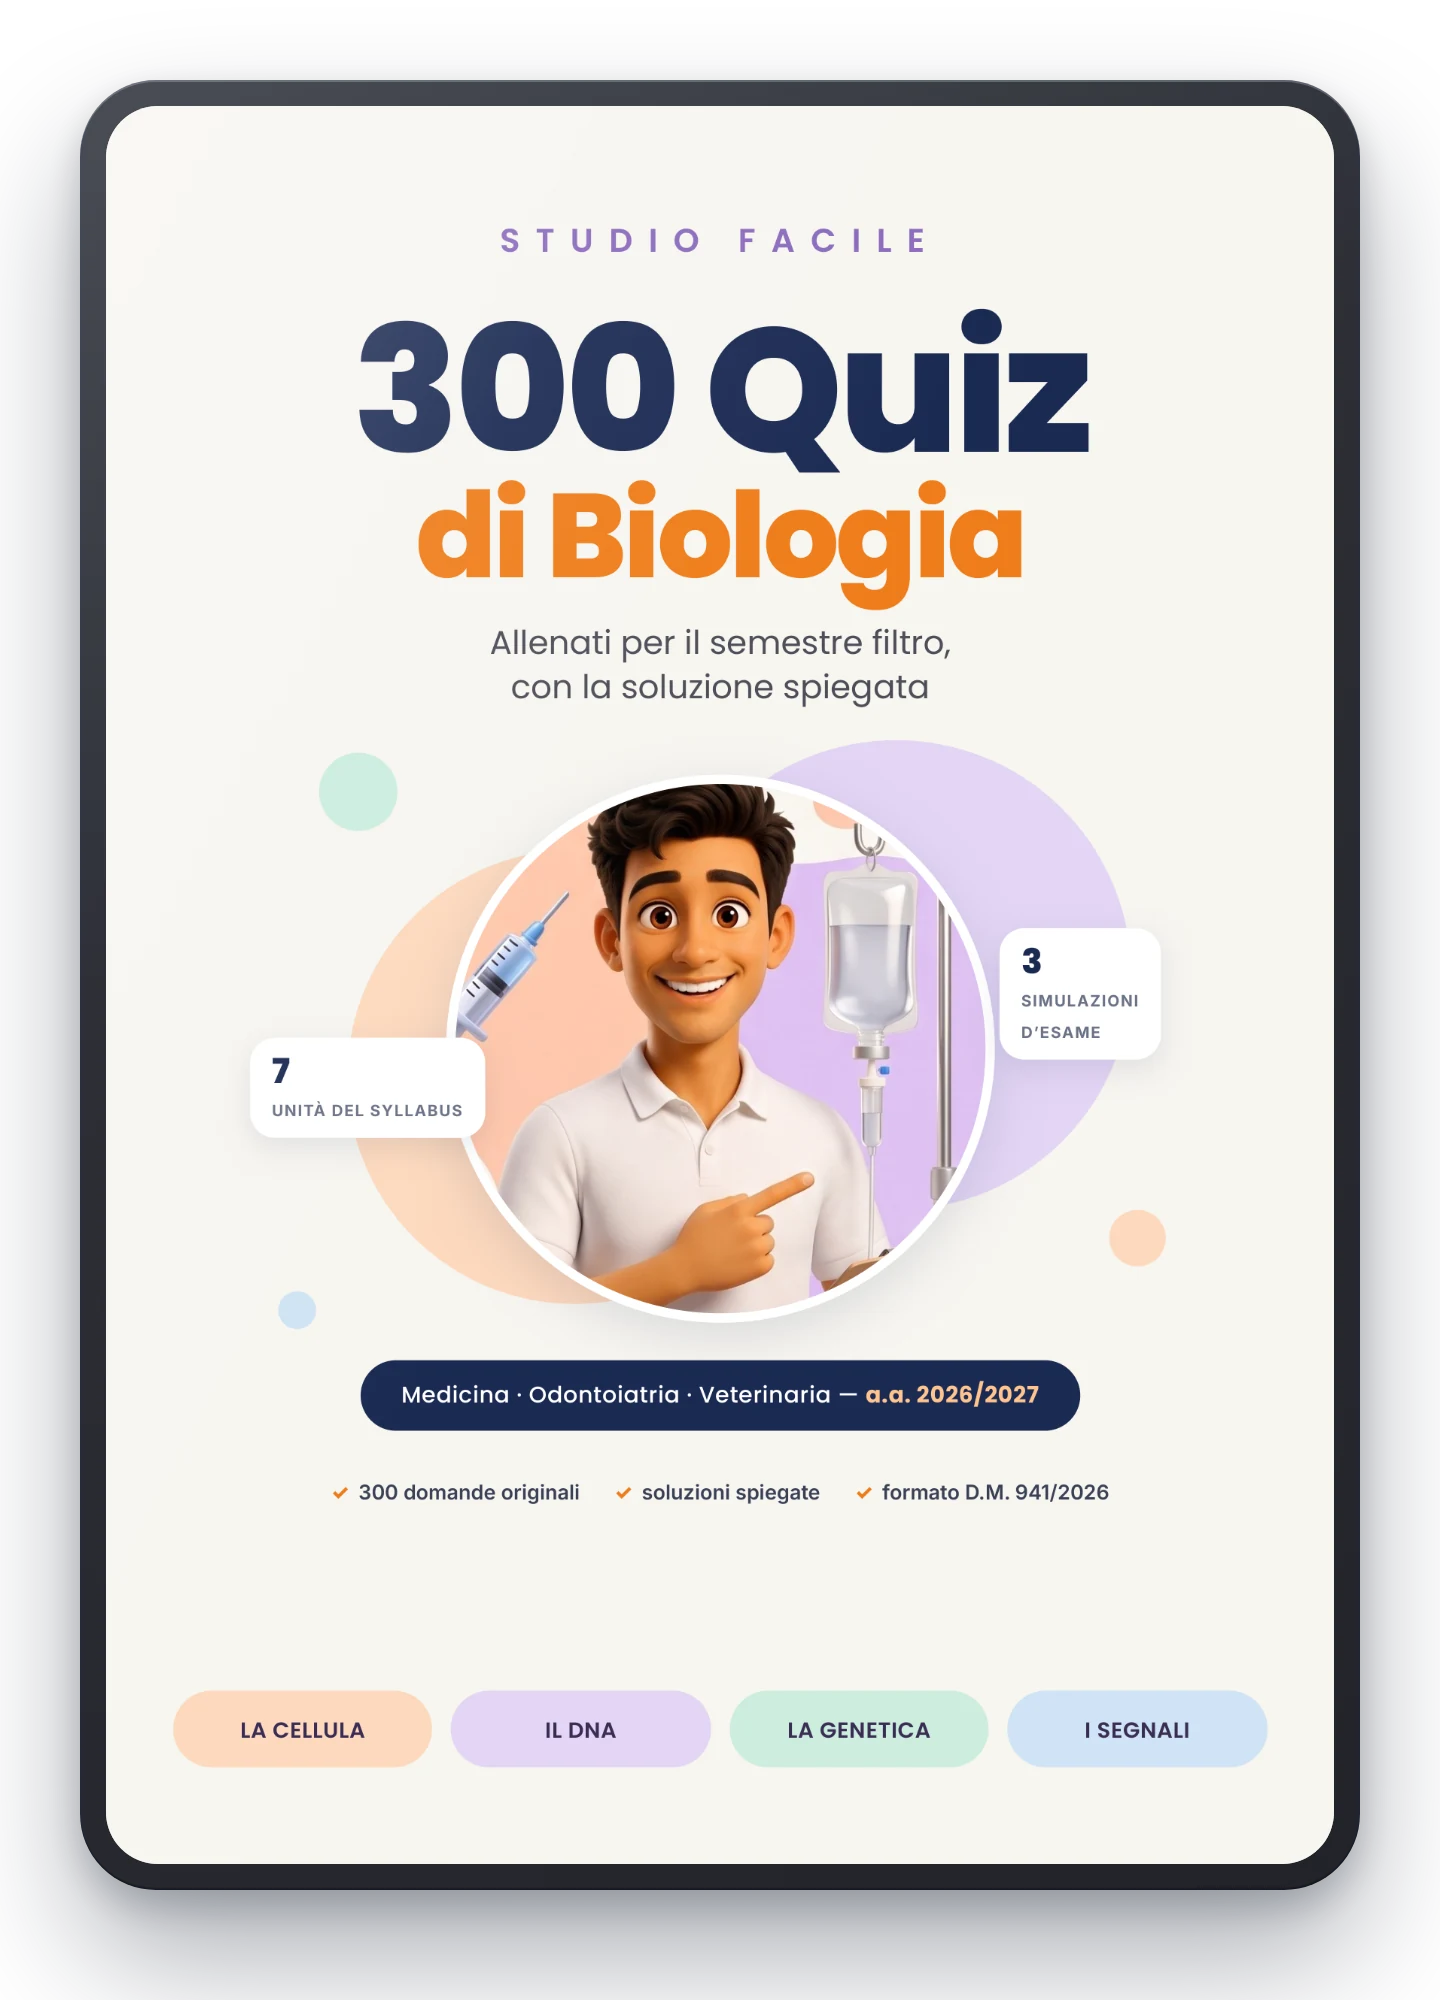
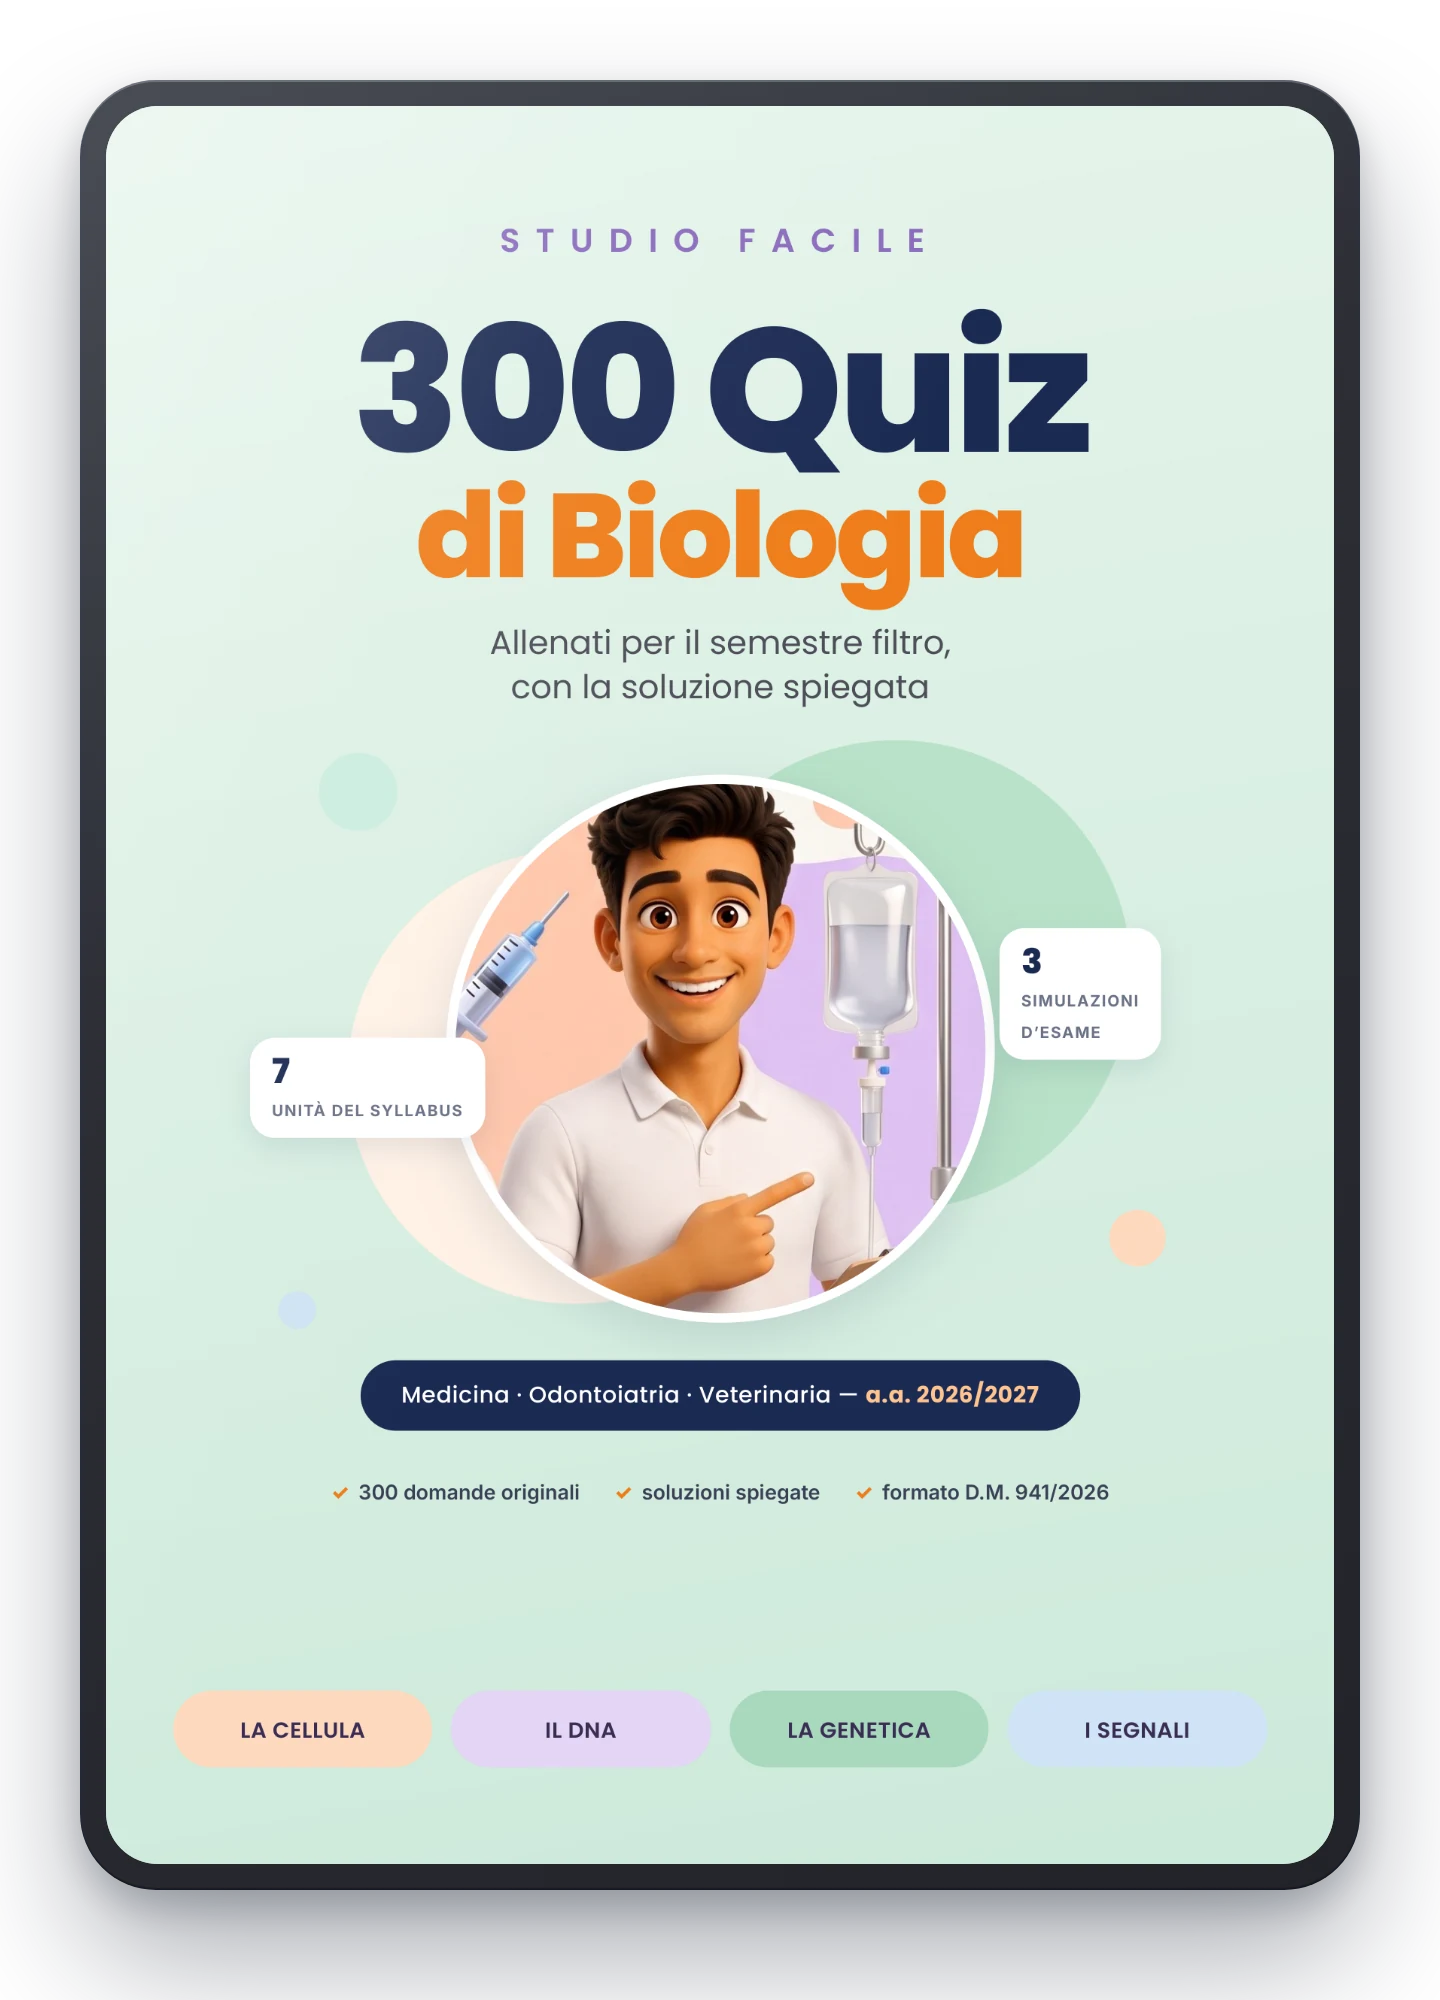
biologia: copertina quiz verde, testimonianze prima dell'esame

diff --git a/biologia.html b/biologia.html
@@ -2148,7 +2148,7 @@
   <section class="hero">
     <div class="hero-content">
       <div class="hero-mockup">
-        <img src="https://czocbnyoenjbpxmcqobn.supabase.co/storage/v1/object/public/algoritmia-img/studiofacile/mockups/biologia/hero.webp?v=01730e5b" alt="Biologia Illustrata con i bonus 300 Quiz di Biologia e Le Parole della Biologia"
+        <img src="https://czocbnyoenjbpxmcqobn.supabase.co/storage/v1/object/public/algoritmia-img/studiofacile/mockups/biologia/hero.webp?v=11bc0f6a" alt="Biologia Illustrata con i bonus 300 Quiz di Biologia e Le Parole della Biologia"
              width="1200" height="886" loading="eager" fetchpriority="high" decoding="async">
       </div>
       <p class="hero-social">
@@ -2248,8 +2248,36 @@
     </div>
   </section>
 
+  <!-- TESTIMONIANZE -->
+  <section class="section section-alt" aria-label="Opinioni degli studenti">
+    <div class="container">
+      <h2 class="text-center" style="margin-bottom: 12px;">Cosa Dicono gli Oltre 11.978 Studenti Che Usano Già Studio Facile:</h2>
+      <p class="text-center section-sub-p">Opinioni sui volumi illustrati della collana Studio Facile.</p>
+      
+      <div class="testimonials-carousel-wrap" role="region" aria-label="Carosello delle opinioni">
+        <button type="button" class="carousel-nav" data-dir="prev" data-target="testimonials-scroll" aria-label="Opinione precedente"><svg viewBox="0 0 24 24" fill="none" stroke="currentColor" stroke-width="2.4" stroke-linecap="round" stroke-linejoin="round" aria-hidden="true"><polyline points="15 18 9 12 15 6"></polyline></svg></button>
+        <button type="button" class="carousel-nav" data-dir="next" data-target="testimonials-scroll" aria-label="Opinione successiva"><svg viewBox="0 0 24 24" fill="none" stroke="currentColor" stroke-width="2.4" stroke-linecap="round" stroke-linejoin="round" aria-hidden="true"><polyline points="9 18 15 12 9 6"></polyline></svg></button>
+        <div class="testimonials-scroll" id="testimonials-scroll" role="list">
+          <article class="testimonial-item" role="listitem"><img src="https://czocbnyoenjbpxmcqobn.supabase.co/storage/v1/object/public/algoritmia-img/studiofacile/depoimentos/testimonio-1.webp?v=452e8424" alt="Opinioni e recensioni degli studenti di Studio Facile" width="1254" height="1254" loading="lazy" decoding="async"></article>
+          <article class="testimonial-item" role="listitem"><img src="https://czocbnyoenjbpxmcqobn.supabase.co/storage/v1/object/public/algoritmia-img/studiofacile/depoimentos/testimonio-2.webp?v=71e8259b" alt="Opinioni e recensioni degli studenti di Studio Facile" width="1254" height="1254" loading="lazy" decoding="async"></article>
+          <article class="testimonial-item" role="listitem"><img src="https://czocbnyoenjbpxmcqobn.supabase.co/storage/v1/object/public/algoritmia-img/studiofacile/depoimentos/testimonio-3.webp?v=1fe606d2" alt="Opinioni e recensioni degli studenti di Studio Facile" width="1254" height="1254" loading="lazy" decoding="async"></article>
+          <article class="testimonial-item" role="listitem"><img src="https://czocbnyoenjbpxmcqobn.supabase.co/storage/v1/object/public/algoritmia-img/studiofacile/depoimentos/testimonio-4.webp?v=7f02ae2b" alt="Opinioni e recensioni degli studenti di Studio Facile" width="1254" height="1254" loading="lazy" decoding="async"></article>
+          <article class="testimonial-item" role="listitem"><img src="https://czocbnyoenjbpxmcqobn.supabase.co/storage/v1/object/public/algoritmia-img/studiofacile/depoimentos/testimonio-5.webp?v=d9509ff6" alt="Opinioni e recensioni degli studenti di Studio Facile" width="1254" height="1254" loading="lazy" decoding="async"></article>
+          <article class="testimonial-item" role="listitem"><img src="https://czocbnyoenjbpxmcqobn.supabase.co/storage/v1/object/public/algoritmia-img/studiofacile/depoimentos/testimonio-6.webp?v=34eba7d2" alt="Opinioni e recensioni degli studenti di Studio Facile" width="1254" height="1254" loading="lazy" decoding="async"></article>
+          <article class="testimonial-item" role="listitem"><img src="https://czocbnyoenjbpxmcqobn.supabase.co/storage/v1/object/public/algoritmia-img/studiofacile/depoimentos/testimonio-7.webp?v=5d8f28a1" alt="Opinioni e recensioni degli studenti di Studio Facile" width="1254" height="1254" loading="lazy" decoding="async"></article>
+          <article class="testimonial-item" role="listitem"><img src="https://czocbnyoenjbpxmcqobn.supabase.co/storage/v1/object/public/algoritmia-img/studiofacile/depoimentos/testimonio-8.webp?v=e42277f4" alt="Opinioni e recensioni degli studenti di Studio Facile" width="1254" height="1254" loading="lazy" decoding="async"></article>
+          <article class="testimonial-item" role="listitem"><img src="https://czocbnyoenjbpxmcqobn.supabase.co/storage/v1/object/public/algoritmia-img/studiofacile/depoimentos/testimonio-9.webp?v=c7c852d1" alt="Opinioni e recensioni degli studenti di Studio Facile" width="1254" height="1254" loading="lazy" decoding="async"></article>
+        </div>
+        <div class="carousel-progress" aria-hidden="true">
+          <div class="carousel-progress-inner" id="testimonials-progress"></div>
+        </div>
+        <div class="carousel-dots" id="testimonials-dots" role="tablist" aria-label="Navigazione"></div>
+      </div>
+    </div>
+  </section>
+
   <!-- IL SEMESTRE FILTRO IN BREVE -->
-  <section class="section section-alt section-snug-top" aria-label="Il semestre filtro in breve">
+  <section class="section" aria-label="Il semestre filtro in breve">
     <div class="container">
       <h2 class="text-center">L'Esame di Biologia, Spiegato Semplice</h2>
       <div class="solution-content">
@@ -2499,7 +2527,7 @@
       <div class="bonus-grid">
         <div class="bonus-item-with-image">
           <div class="bonus-mockup">
-            <img src="https://czocbnyoenjbpxmcqobn.supabase.co/storage/v1/object/public/algoritmia-img/studiofacile/mockups/biologia/bonus-quiz.webp?v=c49d9f25" alt="300 Quiz di Biologia" width="720" height="1000" loading="lazy" decoding="async">
+            <img src="https://czocbnyoenjbpxmcqobn.supabase.co/storage/v1/object/public/algoritmia-img/studiofacile/mockups/biologia/bonus-quiz.webp?v=7c66156b" alt="300 Quiz di Biologia" width="720" height="1000" loading="lazy" decoding="async">
           </div>
           <div class="bonus-text">
             <h3>BONUS 1: &ldquo;300 Quiz di Biologia&rdquo;</h3>
@@ -2528,7 +2556,7 @@
 
       <!-- DECISION BOX -->
       <div class="decision-box" id="offerta">
-        <img src="https://czocbnyoenjbpxmcqobn.supabase.co/storage/v1/object/public/algoritmia-img/studiofacile/mockups/biologia/hero.webp?v=01730e5b" alt="Biologia Illustrata con i due bonus" class="db-mockup" width="1200" height="886" loading="lazy" decoding="async">
+        <img src="https://czocbnyoenjbpxmcqobn.supabase.co/storage/v1/object/public/algoritmia-img/studiofacile/mockups/biologia/hero.webp?v=11bc0f6a" alt="Biologia Illustrata con i due bonus" class="db-mockup" width="1200" height="886" loading="lazy" decoding="async">
         <h3 class="db-title">Biologia Illustrata + 2 Bonus</h3>
         <ul class="db-checklist">
           <li><span class="db-check"><svg viewBox="0 0 24 24"><polyline points="20 6 9 17 4 12"/></svg></span>Biologia Illustrata: 108 pagine illustrate<span class="db-price-val">58,20€</span></li>
@@ -2549,34 +2577,6 @@
           <span class="db-trust-item"><span class="db-trust-icon"><svg viewBox="0 0 24 24"><path d="M12 2C6.48 2 2 6.48 2 12s4.48 10 10 10 10-4.48 10-10S17.52 2 12 2zm-2 15l-5-5 1.41-1.41L10 14.17l7.59-7.59L19 8l-9 9z"/></svg></span>Garanzia 30 giorni</span>
         </div>
         <p class="db-small-print"><strong>Prevendita:</strong> i quiz arrivano subito, il libro e il glossario entro mercoledì 30 settembre. Pagamento unico, senza rate né costi nascosti.</p>
-      </div>
-    </div>
-  </section>
-
-  <!-- TESTIMONIANZE -->
-  <section class="section section-alt" aria-label="Opinioni degli studenti">
-    <div class="container">
-      <h2 class="text-center" style="margin-bottom: 12px;">Cosa Dicono gli Oltre 11.978 Studenti Che Usano Già Studio Facile:</h2>
-      <p class="text-center section-sub-p">Opinioni sui volumi illustrati della collana Studio Facile.</p>
-      
-      <div class="testimonials-carousel-wrap" role="region" aria-label="Carosello delle opinioni">
-        <button type="button" class="carousel-nav" data-dir="prev" data-target="testimonials-scroll" aria-label="Opinione precedente"><svg viewBox="0 0 24 24" fill="none" stroke="currentColor" stroke-width="2.4" stroke-linecap="round" stroke-linejoin="round" aria-hidden="true"><polyline points="15 18 9 12 15 6"></polyline></svg></button>
-        <button type="button" class="carousel-nav" data-dir="next" data-target="testimonials-scroll" aria-label="Opinione successiva"><svg viewBox="0 0 24 24" fill="none" stroke="currentColor" stroke-width="2.4" stroke-linecap="round" stroke-linejoin="round" aria-hidden="true"><polyline points="9 18 15 12 9 6"></polyline></svg></button>
-        <div class="testimonials-scroll" id="testimonials-scroll" role="list">
-          <article class="testimonial-item" role="listitem"><img src="https://czocbnyoenjbpxmcqobn.supabase.co/storage/v1/object/public/algoritmia-img/studiofacile/depoimentos/testimonio-1.webp?v=452e8424" alt="Opinioni e recensioni degli studenti di Studio Facile" width="1254" height="1254" loading="lazy" decoding="async"></article>
-          <article class="testimonial-item" role="listitem"><img src="https://czocbnyoenjbpxmcqobn.supabase.co/storage/v1/object/public/algoritmia-img/studiofacile/depoimentos/testimonio-2.webp?v=71e8259b" alt="Opinioni e recensioni degli studenti di Studio Facile" width="1254" height="1254" loading="lazy" decoding="async"></article>
-          <article class="testimonial-item" role="listitem"><img src="https://czocbnyoenjbpxmcqobn.supabase.co/storage/v1/object/public/algoritmia-img/studiofacile/depoimentos/testimonio-3.webp?v=1fe606d2" alt="Opinioni e recensioni degli studenti di Studio Facile" width="1254" height="1254" loading="lazy" decoding="async"></article>
-          <article class="testimonial-item" role="listitem"><img src="https://czocbnyoenjbpxmcqobn.supabase.co/storage/v1/object/public/algoritmia-img/studiofacile/depoimentos/testimonio-4.webp?v=7f02ae2b" alt="Opinioni e recensioni degli studenti di Studio Facile" width="1254" height="1254" loading="lazy" decoding="async"></article>
-          <article class="testimonial-item" role="listitem"><img src="https://czocbnyoenjbpxmcqobn.supabase.co/storage/v1/object/public/algoritmia-img/studiofacile/depoimentos/testimonio-5.webp?v=d9509ff6" alt="Opinioni e recensioni degli studenti di Studio Facile" width="1254" height="1254" loading="lazy" decoding="async"></article>
-          <article class="testimonial-item" role="listitem"><img src="https://czocbnyoenjbpxmcqobn.supabase.co/storage/v1/object/public/algoritmia-img/studiofacile/depoimentos/testimonio-6.webp?v=34eba7d2" alt="Opinioni e recensioni degli studenti di Studio Facile" width="1254" height="1254" loading="lazy" decoding="async"></article>
-          <article class="testimonial-item" role="listitem"><img src="https://czocbnyoenjbpxmcqobn.supabase.co/storage/v1/object/public/algoritmia-img/studiofacile/depoimentos/testimonio-7.webp?v=5d8f28a1" alt="Opinioni e recensioni degli studenti di Studio Facile" width="1254" height="1254" loading="lazy" decoding="async"></article>
-          <article class="testimonial-item" role="listitem"><img src="https://czocbnyoenjbpxmcqobn.supabase.co/storage/v1/object/public/algoritmia-img/studiofacile/depoimentos/testimonio-8.webp?v=e42277f4" alt="Opinioni e recensioni degli studenti di Studio Facile" width="1254" height="1254" loading="lazy" decoding="async"></article>
-          <article class="testimonial-item" role="listitem"><img src="https://czocbnyoenjbpxmcqobn.supabase.co/storage/v1/object/public/algoritmia-img/studiofacile/depoimentos/testimonio-9.webp?v=c7c852d1" alt="Opinioni e recensioni degli studenti di Studio Facile" width="1254" height="1254" loading="lazy" decoding="async"></article>
-        </div>
-        <div class="carousel-progress" aria-hidden="true">
-          <div class="carousel-progress-inner" id="testimonials-progress"></div>
-        </div>
-        <div class="carousel-dots" id="testimonials-dots" role="tablist" aria-label="Navigazione"></div>
       </div>
     </div>
   </section>
